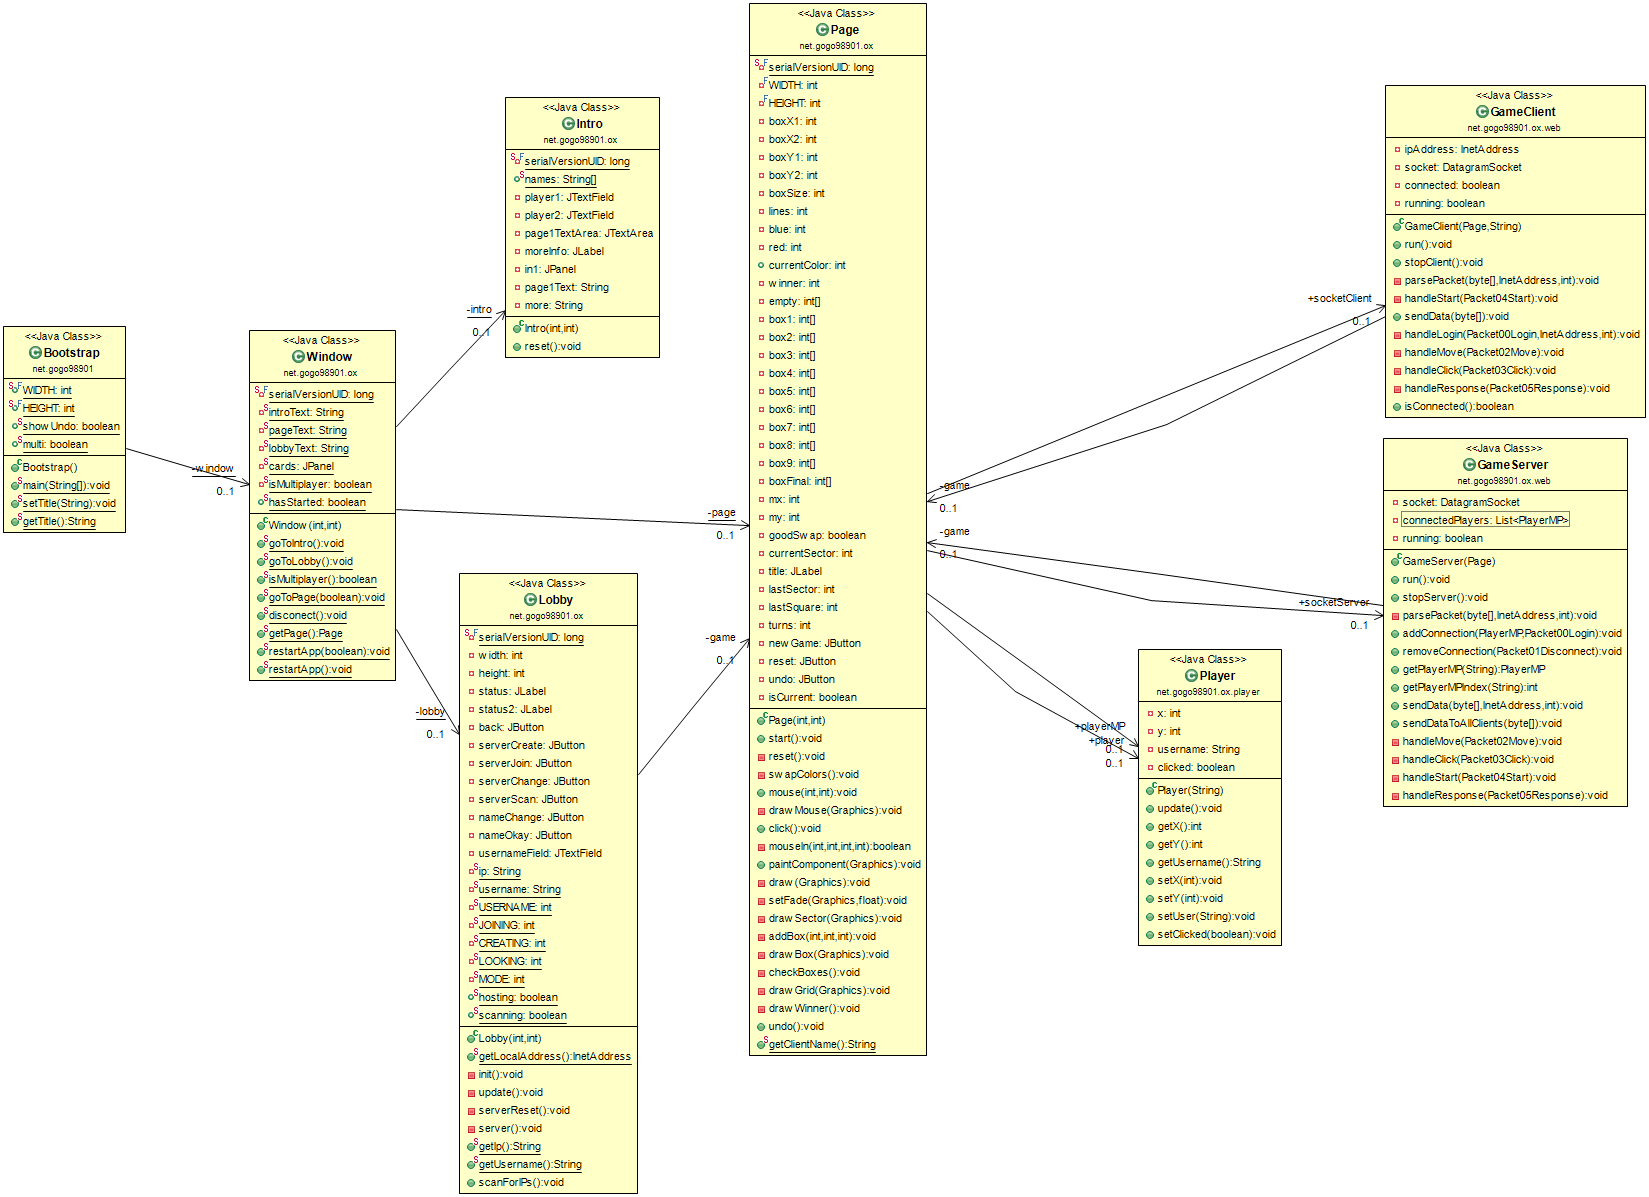
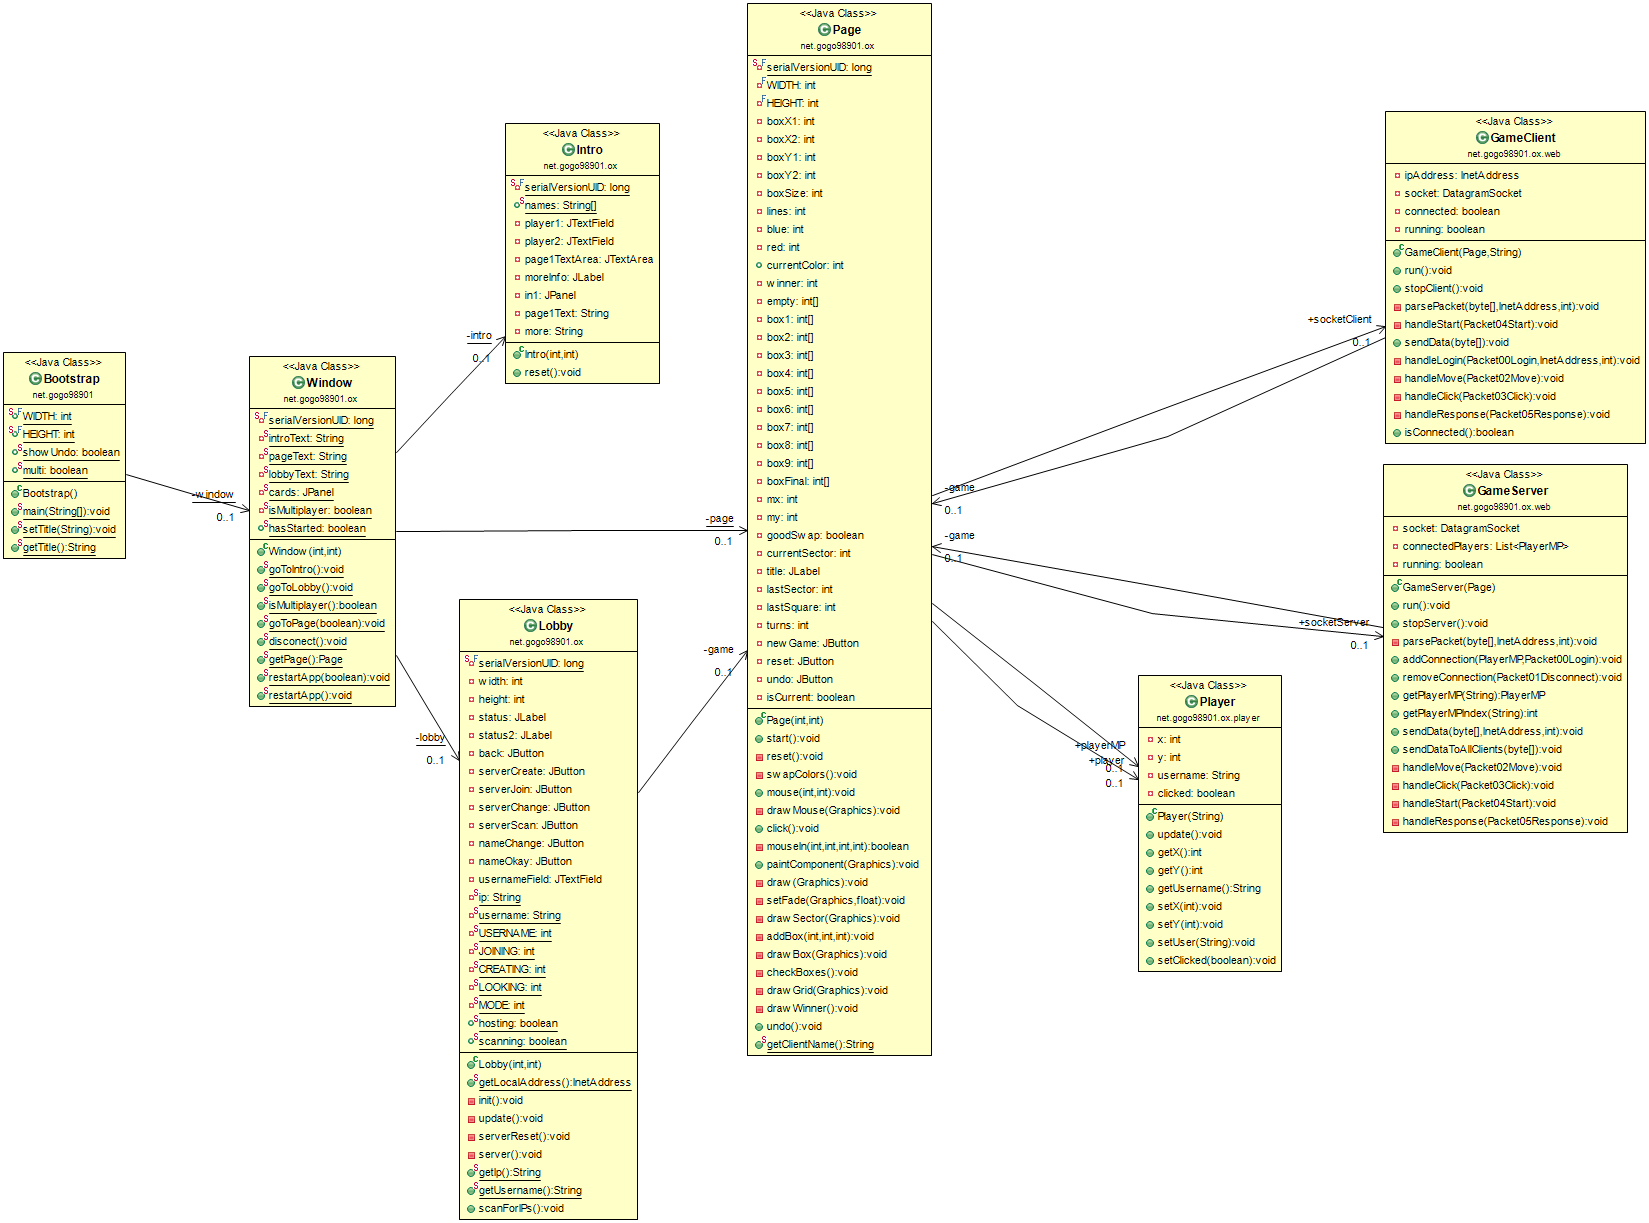
Updated the diagrams

diff --git a/README.md b/README.md
@@ -29,3 +29,7 @@ To see all downloads click on [releases](https://github.com/GOGO98901/TicTacToe/
   * This download is the file I use for testing bewteen computers and so if you are the unlucky one to download when I'm testing the game may not work
   * Howerver this will be the most up to date file
 2. Download the current build 1.5 [here](https://github.com/GOGO98901/TicTacToe/releases/tag/1.5)
+
+---
+###Project Map
+[<img src="Diagram.png" />](http://github.com/GOGO98901/TicTacToe/Diagram.png)
